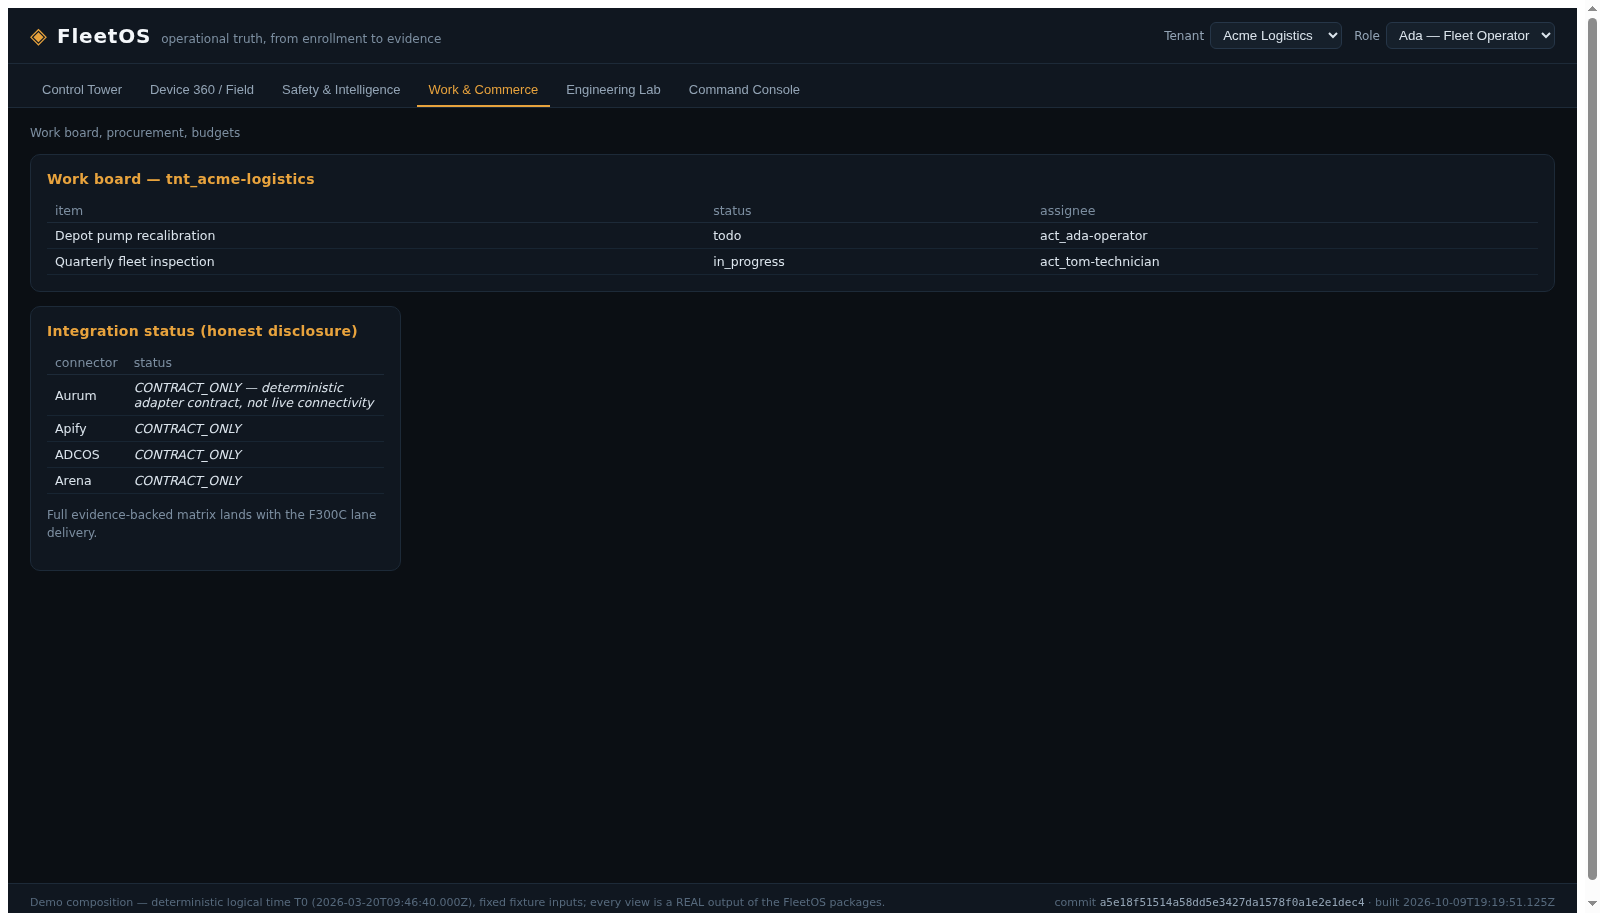
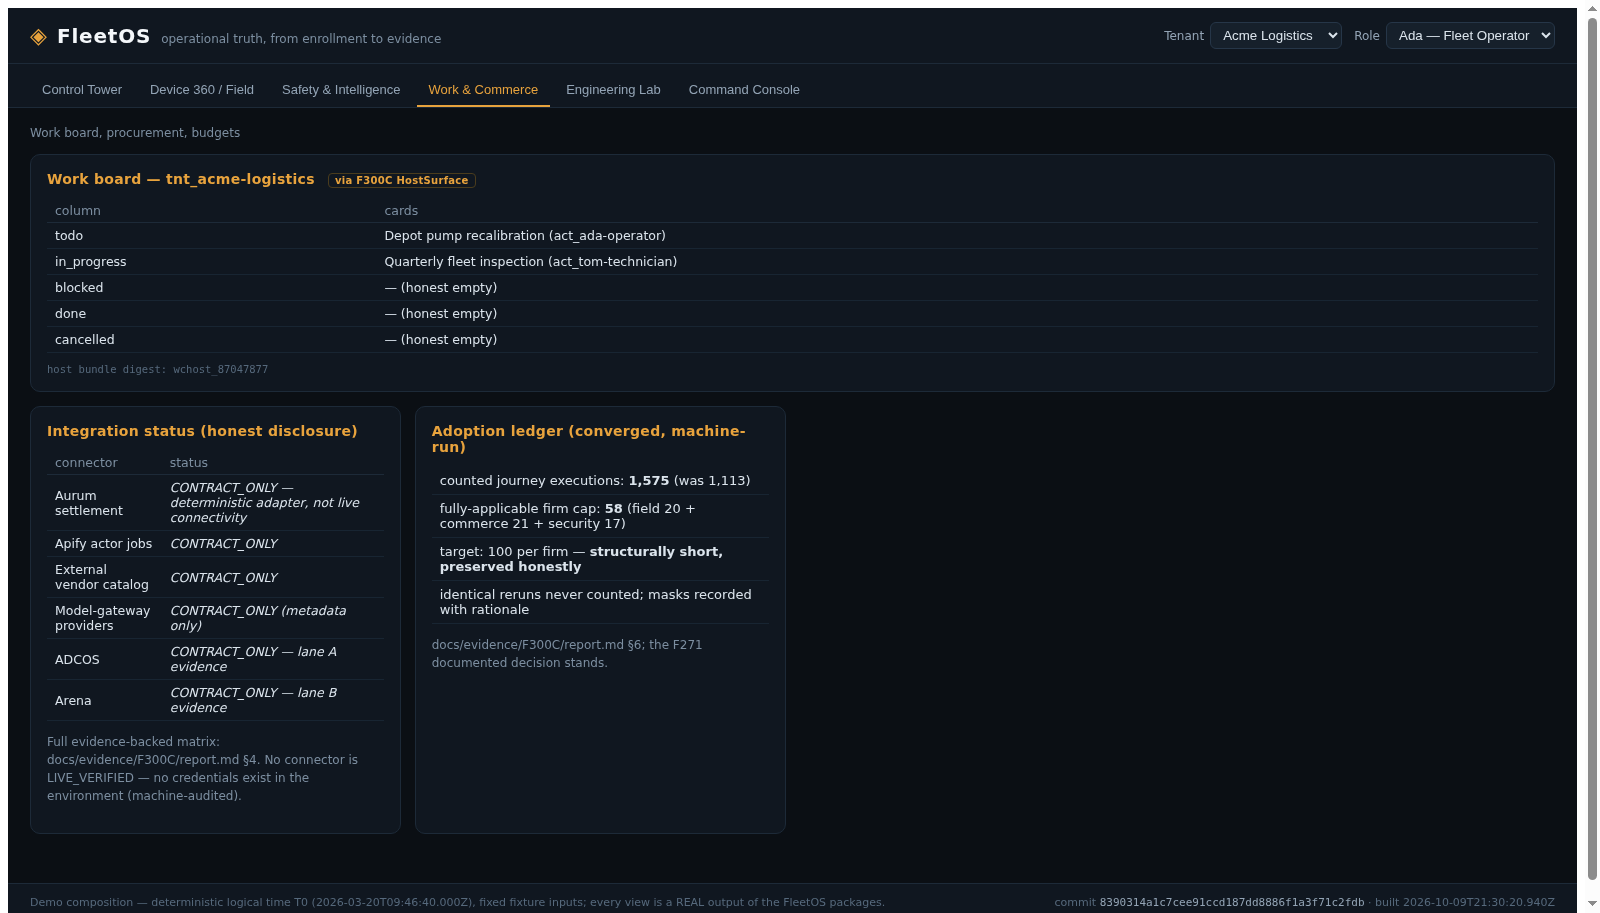
F301 (phase 3 — COMPLETE): lane C bound — CommercePage renders through the REAL F300C workCommerceHostSurface (work board with real cards + honest empty columns; host bundle digest wchost_87047877 rendered in-page) + the honest integration matrix (six connectors, all CONTRACT_ONLY, no credentials ex

diff --git a/packages/web/src/fleetos/main.tsx b/packages/web/src/fleetos/main.tsx
@@ -22,6 +22,7 @@ import { buildWorkBoard } from "@fleetos/experience-work-commerce";
 import { assembleFleetOverview } from "@fleetos/experience-asset-field";
 import { buildWorld, runLab, TENANTS, T0, type TenantWorld } from "./world.js";
 import { assetFieldHostSurface } from "@fleetos/experience-asset-field/host";
+import { workCommerceHostSurface } from "@fleetos/experience-work-commerce/host";
 import { makeTenantContext } from "@fleetos/identity";
 import { FleetCommandPath, type SubmissionRecord } from "./commandPath.js";
 
@@ -412,43 +413,72 @@ function SafetyPage({ tw }: { tw: TenantWorld }) {
 }
 
 function CommercePage({ tw }: { tw: TenantWorld }) {
+  // F301 convergence: the REAL lane C HostSurface (F300C) — work board +
+  // honest not-composed sections for undeployed lanes of the demo world.
   const workItems = mapWorkItems(tw);
-  const board = buildWorkBoard({
-    tenant: { tenantId: tw.tenantId },
-    workItems: workItems as never,
-    computedAt: new Date(T0).toISOString(),
-  });
+  const host = workCommerceHostSurface.buildViewModels(
+    {
+      tenantId: tw.tenantId,
+      workItems: workItems as never,
+      projects: [], stages: [], milestones: [],
+      capacities: [], allocations: [],
+      needs: [], demands: [], quotes: [], orders: [], fulfillments: [],
+      vendors: [], exposures: [],
+      subscriptions: [], entitlements: [],
+      assignments: [], budgets: [], usage: [],
+    },
+    { tenantId: tw.tenantId, actorId: "act_shell-operator", roleId: "role_fleet-operator", establishedAt: T0 + 10_000, scope: "tenant" },
+  );
   return (
     <div className="fos-grid">
       <section className="fos-card fos-span2">
-        <h2>Work board — {tw.tenantId}</h2>
-        {!board.ok ? (
-          <RefusalView code={String(board.reasonCode)} detail={String(board.detail)} />
+        <h2>Work board — {tw.tenantId} <span className="fos-badge">via F300C HostSurface</span></h2>
+        {!host.ok ? (
+          <RefusalView code={`host-refused/${String(host.rejected)}`} detail={host.detail} />
+        ) : !host.models.workBoard.ok ? (
+          <RefusalView code={String(host.models.workBoard.reasonCode)} detail={String(host.models.workBoard.detail)} />
         ) : (
           <table className="fos-table">
-            <thead><tr><th>item</th><th>status</th><th>assignee</th></tr></thead>
+            <thead><tr><th>column</th><th>cards</th></tr></thead>
             <tbody>
-              {board.board.columns.flatMap((c) => c.cards.map((i) => (
-                <tr key={i.workItemId}><td>{i.title}</td><td>{i.status}</td><td>{i.assigneeId ?? "unassigned"}</td></tr>
-              )))}
+              {host.models.workBoard.board.columns.map((c) => (
+                <tr key={c.status}>
+                  <td>{c.status}</td>
+                  <td>{c.cards.map((i) => `${i.title} (${i.assigneeId ?? "unassigned"})`).join(" · ") || "— (honest empty)"}</td>
+                </tr>
+              ))}
             </tbody>
           </table>
         )}
+        {host.ok && <pre className="fos-digest">host bundle digest: {host.models.digest}</pre>}
       </section>
       <section className="fos-card">
         <h2>Integration status (honest disclosure)</h2>
         <table className="fos-table">
           <thead><tr><th>connector</th><th>status</th></tr></thead>
           <tbody>
-            <tr><td>Aurum</td><td><em>CONTRACT_ONLY — deterministic adapter contract, not live connectivity</em></td></tr>
-            <tr><td>Apify</td><td><em>CONTRACT_ONLY</em></td></tr>
-            <tr><td>ADCOS</td><td><em>CONTRACT_ONLY</em></td></tr>
-            <tr><td>Arena</td><td><em>CONTRACT_ONLY</em></td></tr>
+            <tr><td>Aurum settlement</td><td><em>CONTRACT_ONLY — deterministic adapter, not live connectivity</em></td></tr>
+            <tr><td>Apify actor jobs</td><td><em>CONTRACT_ONLY</em></td></tr>
+            <tr><td>External vendor catalog</td><td><em>CONTRACT_ONLY</em></td></tr>
+            <tr><td>Model-gateway providers</td><td><em>CONTRACT_ONLY (metadata only)</em></td></tr>
+            <tr><td>ADCOS</td><td><em>CONTRACT_ONLY — lane A evidence</em></td></tr>
+            <tr><td>Arena</td><td><em>CONTRACT_ONLY — lane B evidence</em></td></tr>
           </tbody>
         </table>
         <p className="fos-note">
-          Full evidence-backed matrix lands with the F300C lane delivery.
+          Full evidence-backed matrix: docs/evidence/F300C/report.md §4. No connector is
+          LIVE_VERIFIED — no credentials exist in the environment (machine-audited).
         </p>
+      </section>
+      <section className="fos-card">
+        <h2>Adoption ledger (converged, machine-run)</h2>
+        <ul className="fos-list">
+          <li>counted journey executions: <b>1,575</b> (was 1,113)</li>
+          <li>fully-applicable firm cap: <b>58</b> (field 20 + commerce 21 + security 17)</li>
+          <li>target: 100 per firm — <b>structurally short, preserved honestly</b></li>
+          <li>identical reruns never counted; masks recorded with rationale</li>
+        </ul>
+        <p className="fos-note">docs/evidence/F300C/report.md §6; the F271 documented decision stands.</p>
       </section>
     </div>
   );
